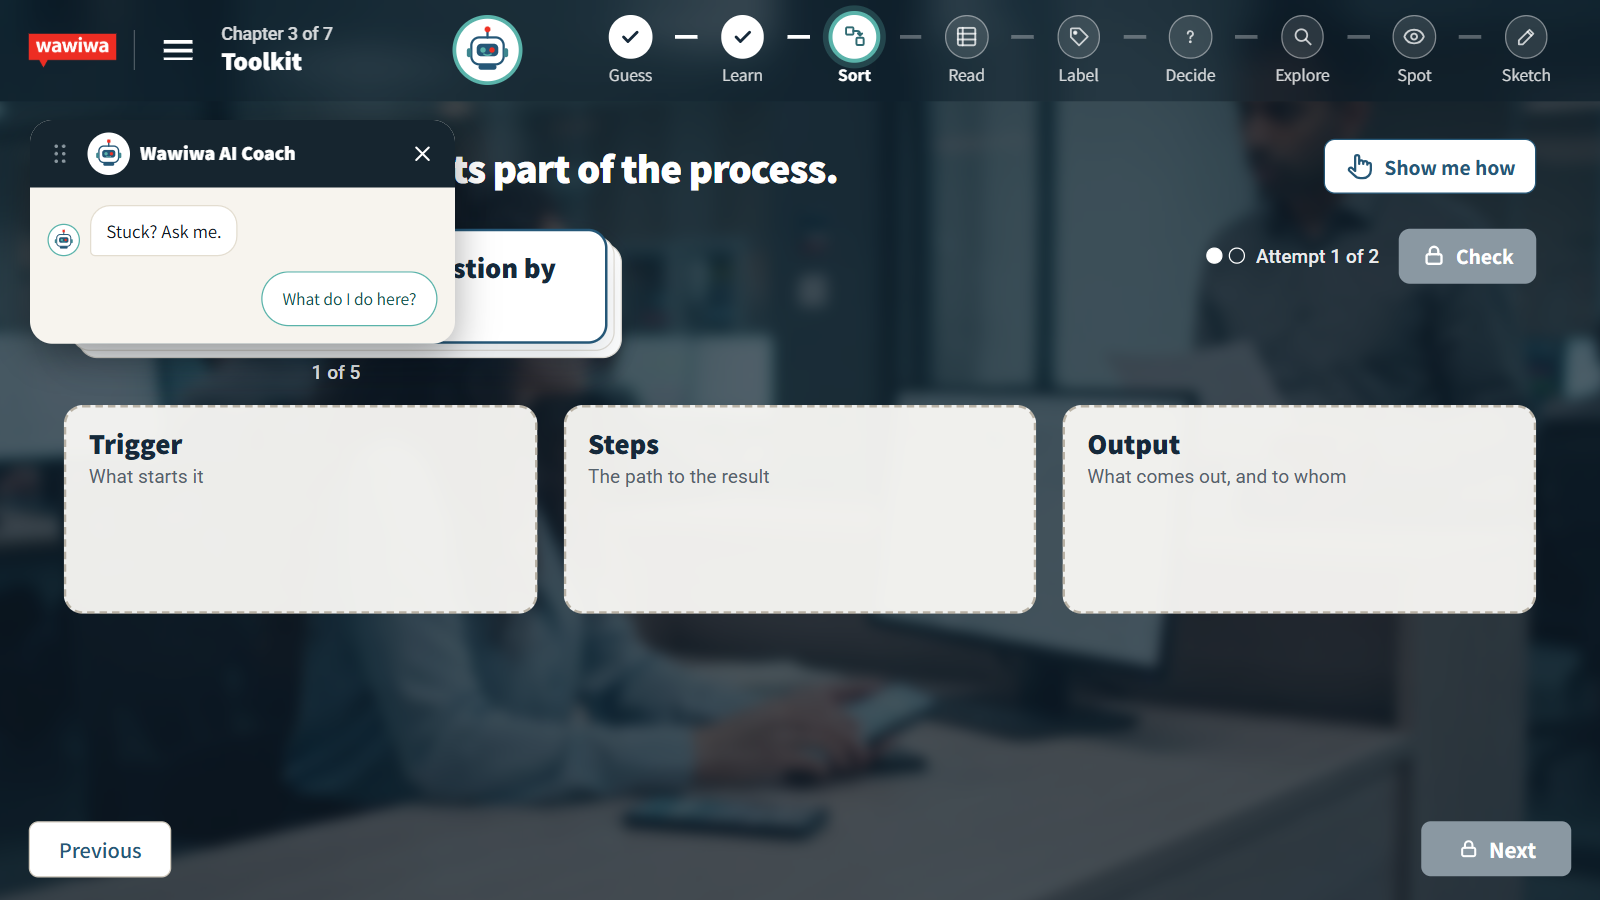
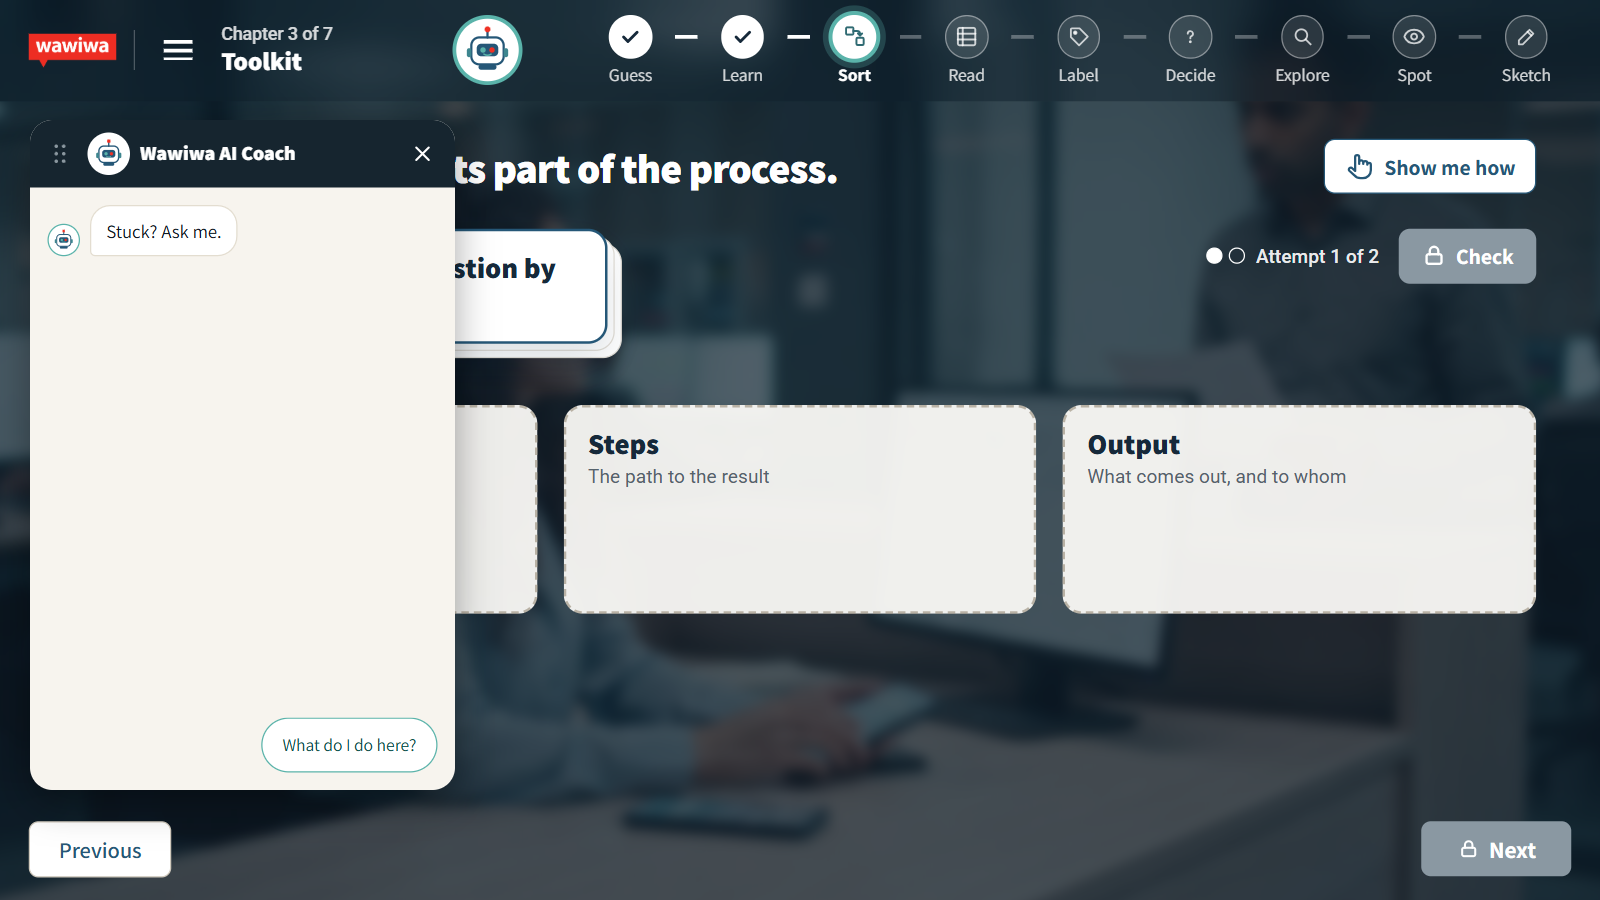
EAI L4 CO1 follow-up (Noy): the coach panel runs to the foot of the page (536 high, y 96 to 632); shots retaken, report

Changed region(s): [[0.0, 0.3733, 0.3125, 0.9022], [0.1562, 0.3111, 0.25, 0.3422]]

diff --git a/enterprise-ai-implementation/eai-m1l4-selfstudy/src/engine.js b/enterprise-ai-implementation/eai-m1l4-selfstudy/src/engine.js
@@ -8,26 +8,26 @@
 // screen of every chapter in order, nothing is tracked or saved (no SCORM calls, no localStorage
 // writes; the state lives in memory and starts empty), and a slim review toolbar (src/review/) shows
 // the screen's id, template, chapter and word count. Works with ?screen=ID.
-import { h, fmt, chapterNo, resolveChapterRefs } from './util.js?v=bd7ed3c4';
-import { createZones } from './zones.js?v=bd7ed3c4';
-import { createMenu, openDialog } from './menu.js?v=bd7ed3c4';
-import { initTooltips, applyTerms } from './tooltip.js?v=bd7ed3c4';
-import { loadState, saveState, clearState, emptyState, decode } from './state.js?v=bd7ed3c4';
-import { decision } from './templates/decision.js?v=bd7ed3c4';
-import { input } from './templates/input.js?v=bd7ed3c4';
-import { sortDeck } from './templates/sortdeck.js?v=bd7ed3c4';
-import { bpmn } from './templates/bpmn.js?v=bd7ed3c4';
-import { flags } from './templates/flags.js?v=bd7ed3c4';
-import { explorer } from './templates/explorer.js?v=bd7ed3c4';
-import { video } from './templates/video.js?v=bd7ed3c4';
-import { handoff } from './templates/handoff.js?v=bd7ed3c4';
-import { check } from './templates/check.js?v=bd7ed3c4';
-import { result } from './templates/result.js?v=bd7ed3c4';
-import { end } from './templates/end.js?v=bd7ed3c4';
-import { title, moduleMap, goals, warmup, concept, keyParts, keyColumns } from './templates/intro.js?v=bd7ed3c4';
-import { createGhost, stopGhost } from './ghost.js?v=bd7ed3c4';
-import { createTracking } from './tracking/index.js?v=bd7ed3c4';
-import { createCoach } from './coach/coach.js?v=bd7ed3c4';
+import { h, fmt, chapterNo, resolveChapterRefs } from './util.js?v=96dc38c7';
+import { createZones } from './zones.js?v=96dc38c7';
+import { createMenu, openDialog } from './menu.js?v=96dc38c7';
+import { initTooltips, applyTerms } from './tooltip.js?v=96dc38c7';
+import { loadState, saveState, clearState, emptyState, decode } from './state.js?v=96dc38c7';
+import { decision } from './templates/decision.js?v=96dc38c7';
+import { input } from './templates/input.js?v=96dc38c7';
+import { sortDeck } from './templates/sortdeck.js?v=96dc38c7';
+import { bpmn } from './templates/bpmn.js?v=96dc38c7';
+import { flags } from './templates/flags.js?v=96dc38c7';
+import { explorer } from './templates/explorer.js?v=96dc38c7';
+import { video } from './templates/video.js?v=96dc38c7';
+import { handoff } from './templates/handoff.js?v=96dc38c7';
+import { check } from './templates/check.js?v=96dc38c7';
+import { result } from './templates/result.js?v=96dc38c7';
+import { end } from './templates/end.js?v=96dc38c7';
+import { title, moduleMap, goals, warmup, concept, keyParts, keyColumns } from './templates/intro.js?v=96dc38c7';
+import { createGhost, stopGhost } from './ghost.js?v=96dc38c7';
+import { createTracking } from './tracking/index.js?v=96dc38c7';
+import { createCoach } from './coach/coach.js?v=96dc38c7';
 
 const STAGE_W = 1280, STAGE_H = 720;
 const STAGE_W_MAX = 1600; // a wide window widens the stage up to this (about 2.2:1); wider still is letterboxed
@@ -158,7 +158,7 @@ class Lesson {
       // The toolbar is a dynamic import: src/review/ stays out of the SCORM package (no toolbar there).
       const jump = q.get('screen');
       this.go(jump && this.screens[jump] ? jump : this.order[0]);
-      import('./review/toolbar.js?v=bd7ed3c4').then((m) => { this.toolbar = m.createToolbar(this); this.toolbar.show(this.current); }).catch(() => {});
+      import('./review/toolbar.js?v=96dc38c7').then((m) => { this.toolbar = m.createToolbar(this); this.toolbar.show(this.current); }).catch(() => {});
       return;
     }
     if (q.get('reset') === '1') { clearState(); this.state = emptyState(); }

diff --git a/enterprise-ai-implementation/eai-m1l4-selfstudy/src/coach/coach.js b/enterprise-ai-implementation/eai-m1l4-selfstudy/src/coach/coach.js
@@ -2,7 +2,7 @@
 // that docks left or right inside the stage (stage px; the stage scales as a whole):
 //   launcher  in the bar right after the chapter name: a 56 px white disc, the robot face, 3 px turquoise
 //             ring; locked on the knowledge check (S21: 60% opacity, grey ring, a lock badge)
-//   panel     340 wide, as high as its content (at most 536), top 96, 24 from the left (dock l, the
+//   panel     340 wide, 536 high (Noy: to the foot of the page), top 96, 24 from the left (dock l, the
 //             default, by the launcher) or the right (dock r): y 96 to 632, so it never covers the bar or
 //             reaches Previous / Next. Above main and the footer, below the menu and dialogs. A non-modal
 //             dialog; Escape closes it and the focus goes back to the launcher. Drag it by the grip (it
@@ -21,9 +21,9 @@
 // Nothing the learner types is kept anywhere. Review mode (?review=1) writes nothing; ?coach=hint |
 // open | tip | right | thinking | cap | demo shows that state on load (the review page's coach row).
 // No learner-facing text here: every string arrives from content ui.coach.
-import { h, reducedMotion } from '../util.js?v=bd7ed3c4';
-import { glyph } from '../icons.js?v=bd7ed3c4';
-import { ask } from './transport.js?v=bd7ed3c4';
+import { h, reducedMotion } from '../util.js?v=96dc38c7';
+import { glyph } from '../icons.js?v=96dc38c7';
+import { ask } from './transport.js?v=96dc38c7';
 
 const HINT_CODE = 'a';
 const TOP = 96, BOTTOM = 632; // the panel's box in stage px

diff --git a/enterprise-ai-implementation/eai-m1l4-selfstudy/src/templates/decision.js b/enterprise-ai-implementation/eai-m1l4-selfstudy/src/templates/decision.js
@@ -37,12 +37,12 @@
 //                     steps: three takeaway cards (any one), then the homework line with Open homework
 //                     (new tab), Download my lesson record and Finish lesson.
 // State is never colour alone: a check or cross mark with a label, the verdict word in the strip.
-import { h, fmt, resolveLink } from '../util.js?v=bd7ed3c4';
-import { glyph, icon } from '../icons.js?v=bd7ed3c4';
-import { attachTip } from '../tooltip.js?v=bd7ed3c4';
-import { letter } from '../tracking/index.js?v=bd7ed3c4';
-import { layout, sheet, contextLine, ruleLabel, arrowNav, privacyLine, paintAnswer, explainBand, buildUp, picture, progressDots } from './stage.js?v=bd7ed3c4';
-import { targetSteps } from '../ghost.js?v=bd7ed3c4';
+import { h, fmt, resolveLink } from '../util.js?v=96dc38c7';
+import { glyph, icon } from '../icons.js?v=96dc38c7';
+import { attachTip } from '../tooltip.js?v=96dc38c7';
+import { letter } from '../tracking/index.js?v=96dc38c7';
+import { layout, sheet, contextLine, ruleLabel, arrowNav, privacyLine, paintAnswer, explainBand, buildUp, picture, progressDots } from './stage.js?v=96dc38c7';
+import { targetSteps } from '../ghost.js?v=96dc38c7';
 
 const isStage = (screen) => screen.variant === 'single' && screen.stage?.top?.kind === 'character';
 const isCase = (screen) => screen.variant === 'single' && screen.scene === 'stage' && !isStage(screen);

diff --git a/enterprise-ai-implementation/eai-m1l4-selfstudy/index.html b/enterprise-ai-implementation/eai-m1l4-selfstudy/index.html
@@ -7,15 +7,15 @@
 <meta name="robots" content="noindex, nofollow">
 <title>Process Modeling and Workflow Mapping</title>
 <link rel="icon" href="data:,">
-<link rel="stylesheet" href="src/tokens.css?v=bd7ed3c4">
-<link rel="stylesheet" href="src/fonts.css?v=bd7ed3c4">
-<link rel="stylesheet" href="src/frame.css?v=bd7ed3c4">
+<link rel="stylesheet" href="src/tokens.css?v=96dc38c7">
+<link rel="stylesheet" href="src/fonts.css?v=96dc38c7">
+<link rel="stylesheet" href="src/frame.css?v=96dc38c7">
 </head>
 <body>
 <div id="app"></div>
 <div id="boot-error" role="alert" hidden></div>
 <!-- Fallback for when content/l4-slice.json itself cannot load (file:// or network). Must equal ui.boot in the content file (tools/check.mjs asserts it). -->
 <template id="boot-fallback"><span data-key="error">The lesson could not load.</span><span data-key="fileProtocol">Open it through a web server (GitHub Pages, the LMS, or a local server), not as a file.</span></template>
-<script type="module" src="src/main.js?v=bd7ed3c4"></script>
+<script type="module" src="src/main.js?v=96dc38c7"></script>
 </body>
 </html>

diff --git a/enterprise-ai-implementation/eai-m1l4-selfstudy/src/frame.css b/enterprise-ai-implementation/eai-m1l4-selfstudy/src/frame.css
@@ -1139,9 +1139,9 @@ a.w-btn { text-decoration: none; }
   background: var(--wl-coach-grip); color: var(--wl-white); box-shadow: 0 0 0 2px var(--wl-white); }
 .w-coach-lock[hidden] { display: none; }
 
-/* panel: 340 wide, to its content, at most 536 high; dock left (24) or right (24), top 96: y 96 to 632;
+/* panel: 340 wide, 536 high (Noy: down to the foot of the page, its content at the top); dock left (24) or right (24), top 96: y 96 to 632;
    opaque; above main (1) and the footer (4), below the menu (30) and the dialogs (60) */
-.w-coach-panel { position: absolute; top: 96px; left: 24px; z-index: 10; width: 340px; max-height: 536px; display: flex; flex-direction: column;
+.w-coach-panel { position: absolute; top: 96px; left: 24px; z-index: 10; width: 340px; height: 536px; display: flex; flex-direction: column;
   border-radius: 18px; overflow: hidden; background: var(--wl-coach-ground); box-shadow: 0 10px 30px rgba(0, 0, 0, .35); }
 .w-coach-panel[data-dock="r"] { left: auto; right: 24px; }
 .w-coach-panel[hidden], .w-coach-panel [hidden] { display: none; }

diff --git a/enterprise-ai-implementation/eai-m1l4-selfstudy/src/templates/video.js b/enterprise-ai-implementation/eai-m1l4-selfstudy/src/templates/video.js
@@ -19,11 +19,11 @@
 // media.duration, stops[].t. Swapping the real film in is a change of those paths and times only.
 // Seeking forward never passes the part already watched or the next unanswered stop (the slider
 // clamps, a polite note says why).
-import { h, fmt, nextId } from '../util.js?v=bd7ed3c4';
-import { glyph } from '../icons.js?v=bd7ed3c4';
-import { letter } from '../tracking/index.js?v=bd7ed3c4';
-import { layout, sheet, glassKicker, arrowNav, paintAnswer } from './stage.js?v=bd7ed3c4';
-import { targetSteps } from '../ghost.js?v=bd7ed3c4';
+import { h, fmt, nextId } from '../util.js?v=96dc38c7';
+import { glyph } from '../icons.js?v=96dc38c7';
+import { letter } from '../tracking/index.js?v=96dc38c7';
+import { layout, sheet, glassKicker, arrowNav, paintAnswer } from './stage.js?v=96dc38c7';
+import { targetSteps } from '../ghost.js?v=96dc38c7';
 
 const SEEK_STEP = 5, SEEK_PAGE = 15, AT_STOP = 0.05, AT_END = 0.3;
 const mmss = (t) => { const s = Math.max(0, Math.floor(t)); return `${Math.floor(s / 60)}:${String(s % 60).padStart(2, '0')}`; };

diff --git a/enterprise-ai-implementation/eai-m1l4-selfstudy/src/templates/sortdeck.js b/enterprise-ai-implementation/eai-m1l4-selfstudy/src/templates/sortdeck.js
@@ -22,11 +22,11 @@
 // drags it down, stopping above the columns; "Show me how" replays it.
 // Tracking: one matching interaction at the first Check; the response records each card's FIRST
 // column ("1.a,2.b,..."), correct only if every first placement was right. Later Checks are retries.
-import { h, fmt } from '../util.js?v=bd7ed3c4';
-import { glyph } from '../icons.js?v=bd7ed3c4';
-import { layout, explainBand } from './stage.js?v=bd7ed3c4';
-import { dragDrop } from '../drag.js?v=bd7ed3c4';
-import { checkButton } from './decision.js?v=bd7ed3c4';
+import { h, fmt } from '../util.js?v=96dc38c7';
+import { glyph } from '../icons.js?v=96dc38c7';
+import { layout, explainBand } from './stage.js?v=96dc38c7';
+import { dragDrop } from '../drag.js?v=96dc38c7';
+import { checkButton } from './decision.js?v=96dc38c7';
 
 const keyOf = (c) => String(c.id ?? c.n);
 const COLS_TOP = 222.72, GAP = 15.36; // stage px in main (FX2 B: higher than the frames' 32.2cqw, the columns hold the cards' text)

diff --git a/enterprise-ai-implementation/eai-m1l4-selfstudy/src/templates/intro.js b/enterprise-ai-implementation/eai-m1l4-selfstudy/src/templates/intro.js
@@ -24,11 +24,11 @@
 //                    term in bold, its line after it) with a check or a cross mark.
 // Title, module map, goals and key idea are presentation screens (screen.presentation): the engine
 // marks them done on arrival, so Next never locks. All text comes from the content.
-import { h } from '../util.js?v=bd7ed3c4';
-import { glyph } from '../icons.js?v=bd7ed3c4';
-import { scaleOf } from '../ghost.js?v=bd7ed3c4';
-import { letter } from '../tracking/index.js?v=bd7ed3c4';
-import { layout, sheet, glassKicker, arrowNav, focusHead, splitFirst, buildUp } from './stage.js?v=bd7ed3c4';
+import { h } from '../util.js?v=96dc38c7';
+import { glyph } from '../icons.js?v=96dc38c7';
+import { scaleOf } from '../ghost.js?v=96dc38c7';
+import { letter } from '../tracking/index.js?v=96dc38c7';
+import { layout, sheet, glassKicker, arrowNav, focusHead, splitFirst, buildUp } from './stage.js?v=96dc38c7';
 
 /* ---------- title (O1) ---------- */
 export const title = {

diff --git a/enterprise-ai-implementation/eai-m1l4-selfstudy/src/templates/input.js b/enterprise-ai-implementation/eai-m1l4-selfstudy/src/templates/input.js
@@ -12,11 +12,11 @@
 //                              a field marked optional may stay empty (S12B Date)
 //   all filled              -> values stored under each field's store key, one fill-in answer per
 //                              field on the tracking bus, feedback.saved, Next unlocks
-import { h, fmt, nextId, resolveLink } from '../util.js?v=bd7ed3c4';
-import { glyph } from '../icons.js?v=bd7ed3c4';
-import { attachTip } from '../tooltip.js?v=bd7ed3c4';
-import { layout, sheet, contextLine, privacyLine, showMe, splitFirst } from './stage.js?v=bd7ed3c4';
-import { scaleOf } from '../ghost.js?v=bd7ed3c4';
+import { h, fmt, nextId, resolveLink } from '../util.js?v=96dc38c7';
+import { glyph } from '../icons.js?v=96dc38c7';
+import { attachTip } from '../tooltip.js?v=96dc38c7';
+import { layout, sheet, contextLine, privacyLine, showMe, splitFirst } from './stage.js?v=96dc38c7';
+import { scaleOf } from '../ghost.js?v=96dc38c7';
 
 const COUNTER_ANNOUNCE_AT = 230;
 

diff --git a/enterprise-ai-implementation/eai-m1l4-selfstudy/src/review/page.js b/enterprise-ai-implementation/eai-m1l4-selfstudy/src/review/page.js
@@ -3,9 +3,9 @@
 // index.html?screen=ID&review=1 at 1280 x 720, scaled to 25%), loaded only when it nears the viewport.
 // Under each: id, template, word count (red over 45). A click opens the screen full size in review
 // mode in a new tab. Filters: All, one chapter, Over word limit. Review-only strings live here.
-import { h, chapterNo, resolveChapterRefs } from '../util.js?v=bd7ed3c4';
-import { reviewOrder } from '../engine.js?v=bd7ed3c4';
-import { screenWords, MAX_SCREEN_WORDS, MAX_FEEDBACK_WORDS } from './words.js?v=bd7ed3c4';
+import { h, chapterNo, resolveChapterRefs } from '../util.js?v=96dc38c7';
+import { reviewOrder } from '../engine.js?v=96dc38c7';
+import { screenWords, MAX_SCREEN_WORDS, MAX_FEEDBACK_WORDS } from './words.js?v=96dc38c7';
 
 const root = document.getElementById('review');
 const res = await fetch(new URL('../../content/l4-slice.json', import.meta.url), { cache: 'no-cache' }); // asked fresh on every load

diff --git a/enterprise-ai-implementation/eai-m1l4-selfstudy/src/templates/check.js b/enterprise-ai-implementation/eai-m1l4-selfstudy/src/templates/check.js
@@ -9,11 +9,11 @@
 // (item 5's tiles keep the HR map's line order). Responses are the options' ids, so a shuffled
 // option reports the same letter as before. A revisit shows the result line (resultCard).
 // FX3: version b of every item on a retake (its own interaction ids, L4_S21_1b ...), a again after that.
-import { h, fmt } from '../util.js?v=bd7ed3c4';
-import { glyph } from '../icons.js?v=bd7ed3c4';
-import { checkButton } from './decision.js?v=bd7ed3c4';
-import { letter } from '../tracking/index.js?v=bd7ed3c4';
-import { layout, sheet, progressDots, arrowNav } from './stage.js?v=bd7ed3c4';
+import { h, fmt } from '../util.js?v=96dc38c7';
+import { glyph } from '../icons.js?v=96dc38c7';
+import { checkButton } from './decision.js?v=96dc38c7';
+import { letter } from '../tracking/index.js?v=96dc38c7';
+import { layout, sheet, progressDots, arrowNav } from './stage.js?v=96dc38c7';
 
 export const check = {
   mount(ctx) {

diff --git a/enterprise-ai-implementation/eai-m1l4-selfstudy/src/templates/bpmn.js b/enterprise-ai-implementation/eai-m1l4-selfstudy/src/templates/bpmn.js
@@ -15,11 +15,11 @@
 // Tracking (label): one matching interaction when the last label is placed; the response records
 // each label's FIRST target by the label's one-character code (SCORM 1.2 matching: "s.a,g.b,e.c"),
 // correct only if every first drop was.
-import { h, fmt } from '../util.js?v=bd7ed3c4';
-import { glyph } from '../icons.js?v=bd7ed3c4';
-import { layout } from './stage.js?v=bd7ed3c4';
-import { dragDrop } from '../drag.js?v=bd7ed3c4';
-import { checkButton } from './decision.js?v=bd7ed3c4';
+import { h, fmt } from '../util.js?v=96dc38c7';
+import { glyph } from '../icons.js?v=96dc38c7';
+import { layout } from './stage.js?v=96dc38c7';
+import { dragDrop } from '../drag.js?v=96dc38c7';
+import { checkButton } from './decision.js?v=96dc38c7';
 
 const U = 1.28; // stage px per diagram unit
 const G = { W: 600, H: 254, PAD: 16, LANE: 74, HEAD: 96, X0: 145, PITCH: 97.5, STEP_W: 84, STEP_H: 42, R: 14, GATE: 22 };
